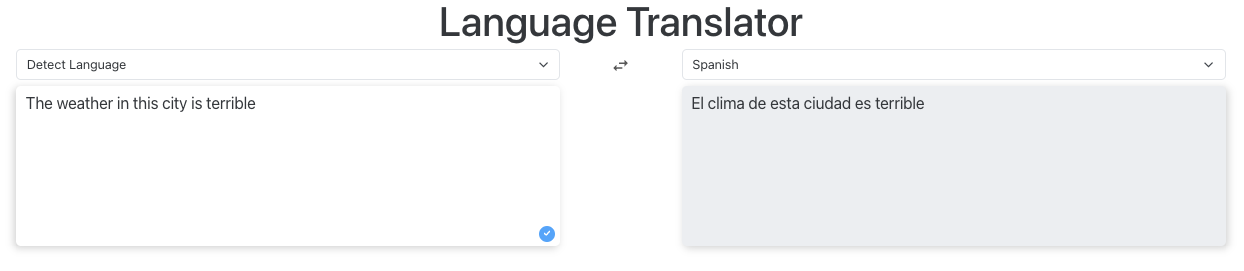
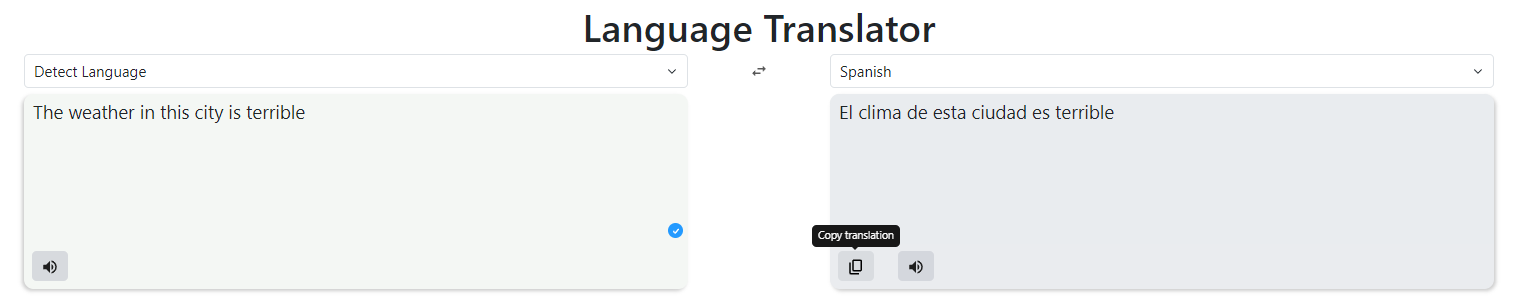
Updating readme.

diff --git a/src/components/LanguageSelector.tsx b/src/components/LanguageSelector.tsx
@@ -1,33 +1,51 @@
-import { Form } from "react-bootstrap"
-import { AUTO_LANGUAGE, SUPPORTED_LANGUAGES } from "../constants"
-import { FunctionComponent } from "react"
-import { FromLanguage, Languages, SectionType } from "../types.d"
+import { Form } from 'react-bootstrap';
+import { AUTO_LANGUAGE, SUPPORTED_LANGUAGES } from '../constants';
+import { FunctionComponent } from 'react';
+import { FromLanguage, Languages, SectionType } from '../types.d';
 
 // Here im controlling props based on the type parameter.
-type Props = 
-  {type: SectionType.From, value: FromLanguage, onChange: (language: FromLanguage) => void}
-  | {type : SectionType.To, value: Languages, onChange: (language: Languages) => void}
+type Props =
+  | {
+      type: SectionType.From;
+      value: FromLanguage;
+      onChange: (language: FromLanguage) => void;
+    }
+  | {
+      type: SectionType.To;
+      value: Languages;
+      onChange: (language: Languages) => void;
+    };
 
-const LanguageSelector : FunctionComponent<Props> = ({ type, value, onChange }) =>  {
-  function handleChange (event: React.ChangeEvent<HTMLSelectElement>) {
-    onChange(event.target.value as Languages)
+const LanguageSelector: FunctionComponent<Props> = ({
+  type,
+  value,
+  onChange,
+}) => {
+  function handleChange(event: React.ChangeEvent<HTMLSelectElement>) {
+    onChange(event.target.value as Languages);
   }
 
   return (
-    <Form.Select onChange={handleChange} value={value}>
-      {type === SectionType.From && <option value={AUTO_LANGUAGE}>Detect Language</option>}
+    <Form.Select
+      onChange={handleChange}
+      value={value}
+      style={{ 'fontSize': ' 20px' }}
+    >
+      {type === SectionType.From && (
+        <option value={AUTO_LANGUAGE}>Detect Language</option>
+      )}
       {/* 
         Since 'SUPPORTED_LANGUAGES' is an object not an array i cant use '.map()' method 
         i have to use the 'Object.entries()' method that returns an array of given objects
         own enumerable string-keyed property like [ key, value ].
       */}
-      {Object.entries(SUPPORTED_LANGUAGES).map( ([ key, literal ]) => (
-        <option key={ key } value={ key }>
-          { literal }
+      {Object.entries(SUPPORTED_LANGUAGES).map(([key, literal]) => (
+        <option key={key} value={key}>
+          {literal}
         </option>
       ))}
     </Form.Select>
-  )
-}   
+  );
+};
 
-export default LanguageSelector
+export default LanguageSelector;

diff --git a/src/components/TextArea.css b/src/components/TextArea.css
@@ -2,7 +2,7 @@
   height: 200px;
   border: 0;
   resize: none;
-  font-size: 20px;
+  font-size: 25px;
   border-radius: 0.8rem 0.8rem 0 0;
   background: transparent;
 }

diff --git a/README.md b/README.md
@@ -8,6 +8,8 @@ The app consist on two TextAreas, one serves as input and the other as output of
 
 Input language can be inferred by the LLM.
 
+Also added the features of coping the translated text, as well as the option for the navigator to read out loud what's in on the Text Areas.
+
 <div width='100%' align='center'>
 <img src='./src/assets/translator_img.png' height='auto' width='100%' />
 </div>
